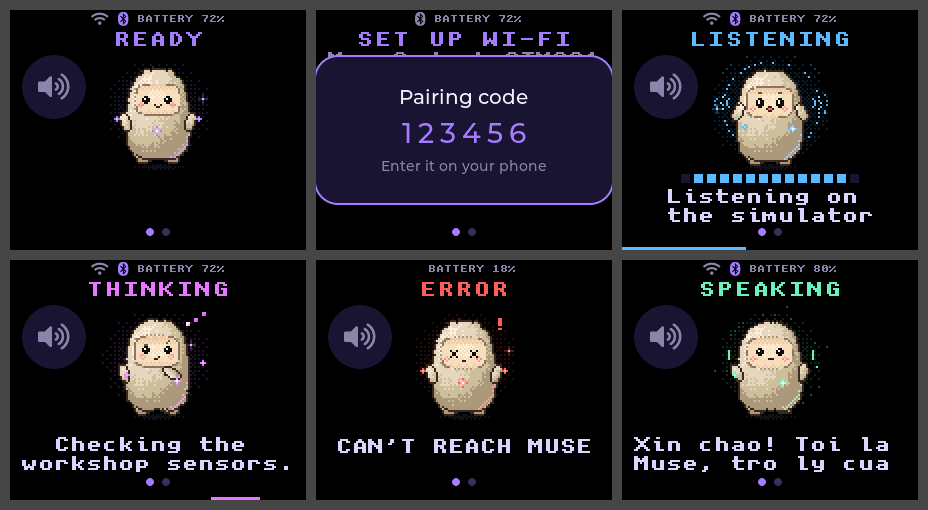
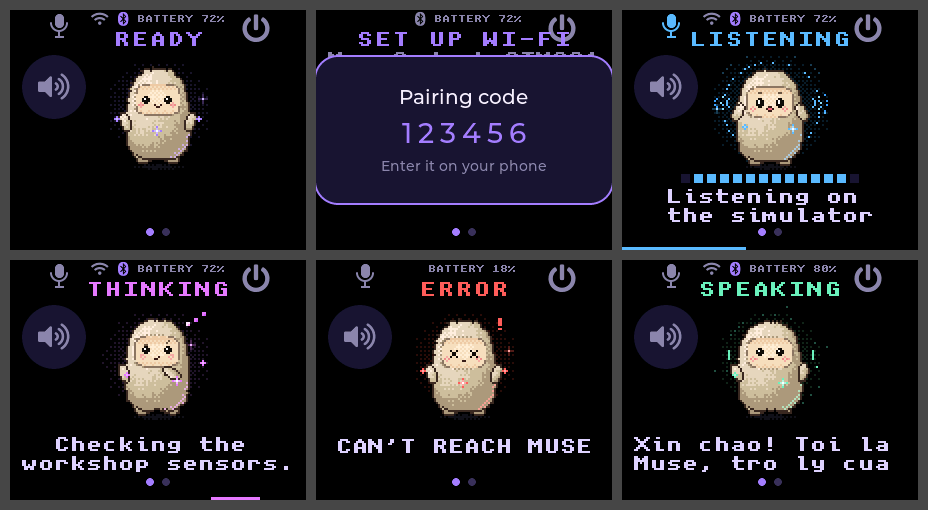
Add device pictures, the online flasher link and a settings footer
The READMEs show each board in its case, link the online flasher at
dbrobot.vn in the boards table, and say the DB_ROBOT logo is free to use
under the fork's license. CREDITS.md records where the pictures came from.

Settings ends with a "Muse AI by DB-robot" line.

OSTB-3ST: the maker's picture shows its keys in a row on the top edge, + on
the left and - on the right, so the mic and power icons move to the top
corners and the captions name the keys + and -.

Claude-Session: https://claude.ai/code/session_014d2NmrhNFXnJXy8CzacTwT

diff --git a/esp32/components/muse/boards/board_ostb_3st.c b/esp32/components/muse/boards/board_ostb_3st.c
@@ -18,7 +18,8 @@
  * OSTB-3ST ("ostb-xiaozhi-3st"): ESP32-S3 with a 1.83" 240x296 NV3023 LCD on
  * SPI, used in landscape (296x240), a CST816 touch controller with no
  * interrupt line, an ES8311 DAC and ES7210 ADC on one duplex I2S port, two
- * volume keys, a charge-status pin and a pin that cuts the board's power.
+ * volume keys on the top edge, a charge-status pin and a pin that cuts the
+ * board's power.
  *
  * Everything here about the hardware (pins, the panel's setup table and
  * orientation, the battery's ADC table) is from the board's xiaozhi-esp32
@@ -89,8 +90,8 @@ static const char *TAG = "board";
 #define I2S_DIN GPIO_NUM_7
 #define PA_EN GPIO_NUM_4
 
-#define TALK_GPIO GPIO_NUM_39   /* volume up, the upper key */
-#define AUX_GPIO GPIO_NUM_40    /* volume down, the lower key */
+#define TALK_GPIO GPIO_NUM_39   /* volume up, the + key */
+#define AUX_GPIO GPIO_NUM_40    /* volume down, the - key */
 #define CHG_GPIO GPIO_NUM_47    /* the charger's status: low while charging */
 #define PWR_OFF_GPIO GPIO_NUM_3 /* high: the board switches itself off */
 #define BATT_ADC ADC_CHANNEL_6  /* GPIO17, on ADC2 */
@@ -529,7 +530,7 @@ static void panel_off(void *arg)
 
 /*
  * The power-off pin switches the board off, as its own firmware does. On USB
- * power it may stay up: then the screen stays off until the upper key is
+ * power it may stay up: then the screen stays off until the + key is
  * pressed, which restarts it.
  */
 static esp_err_t power_off(void)
@@ -555,11 +556,14 @@ static const muse_board_t s_board = {
     .round = false,
     .touch = true,
     .diagonal_in = 1.83f,
-    .talk_button = "upper",
-    .aux_button = "lower",
-    /* The two keys' icons, one above the other at the right edge. */
-    .talk_hint = { LV_ALIGN_TOP_RIGHT, -16, 60 },
-    .aux_hint = { LV_ALIGN_TOP_RIGHT, -14, 110 },
+    .talk_button = "+",
+    .aux_button = "-",
+    /* The keys are in a row on the top edge, as the maker's pictures show the
+     * case: + on the left, - on the right, and between them a key this
+     * firmware doesn't read. Their icons go under them, at either end of the
+     * status line, which has the middle of the top edge. */
+    .talk_hint = { LV_ALIGN_TOP_LEFT, 36, 4 },
+    .aux_hint = { LV_ALIGN_TOP_RIGHT, -36, 4 },
     .frame_ms = 40,
     .init = init,
     .display_start = display_start,

diff --git a/esp32/components/muse/muse_settings_ui.c b/esp32/components/muse/muse_settings_ui.c
@@ -14,7 +14,7 @@
  * limitations under the License.
  *
  * Modified by ledienbien-ai (2026): pages that fit a rectangular screen under 300 px
- * tall (for the OSTB-3ST).
+ * tall (for the OSTB-3ST); a "Muse AI by DB-robot" line under the settings list.
  */
 
 #include "muse_settings_ui.h"
@@ -1263,6 +1263,7 @@ static void build_home(lv_obj_t *tile)
     row(list, LV_SYMBOL_BATTERY_FULL, "Battery", &s_home_battery, on_nav, (void *)&BATTERY);
     row(list, LV_SYMBOL_POWER, "Power off", NULL, on_nav, (void *)&POWER);
     s_about = note(list, "");
+    note(list, "Muse AI by DB-robot");
 }
 
 static void tick_home(void)

diff --git a/README.vi.md b/README.vi.md
@@ -48,8 +48,8 @@ Mỗi bo chạy đầy đủ giao diện trên màn hình: avatar động, nhấ
 
 | Bo | Màn hình | Tên | Profile | Tình trạng |
 |---|---|---|---|---|
-| [Waveshare ESP32-S3-Touch-LCD-1.85C](#waveshare-esp32-s3-touch-lcd-185c) | Tròn 1,85" 360×360, cảm ứng | `s3lcd` | `waveshare-s3-185c` | Đã nạp lên bo thật: khởi động và hiện giao diện. Chưa thử trò chuyện với Muse |
-| [OSTB-3ST](#ostb-3st) | 1,83" 296×240, cảm ứng | `ostb` | `ostb-3st` | Biên dịch được; chưa chạy trên bo thật |
+| [Waveshare ESP32-S3-Touch-LCD-1.85C](#waveshare-esp32-s3-touch-lcd-185c) | Tròn 1,85" 360×360, cảm ứng | `s3lcd` | `waveshare-s3-185c` | Nạp firmware online tại: https://dbrobot.vn/firmware.html |
+| [OSTB-3ST](#ostb-3st) | 1,83" 296×240, cảm ứng | `ostb` | `ostb-3st` | Nạp firmware online tại: https://dbrobot.vn/firmware.html |
 
 Tên là cách `tools/muse/board.sh` gọi bo; profile là tên của cấu hình build và
 thư mục build. Các bo mà bản gốc hỗ trợ vẫn còn nguyên, liệt kê trong
@@ -57,6 +57,10 @@ thư mục build. Các bo mà bản gốc hỗ trợ vẫn còn nguyên, liệt 
 
 ## Waveshare ESP32-S3-Touch-LCD-1.85C
 
+<p align="center">
+  <img src="doc/image/waveshare-s3-185c-device.jpg" width="300" alt="Waveshare ESP32-S3-Touch-LCD-1.85C trong vỏ máy">
+  <img src="doc/image/waveshare-s3-185c-muse.jpg" width="300" alt="Trang cài đặt của Muse trên bo 1.85C">
+</p>
 <p align="center">
   <img src="doc/image/Wareshare%20Touch%20LCD%201.85C.png" width="720" alt="Giao diện Muse trên màn tròn 360 px, do trình mô phỏng vẽ: sẵn sàng, ghép đôi, đang nghe, đang nghĩ, lỗi và đang nói">
 </p>
@@ -90,6 +94,9 @@ Tài liệu phần cứng: [trang của Waveshare](https://docs.waveshare.com/ES
 ## OSTB-3ST
 
 <p align="center">
+  <img src="doc/image/ostb-3st-device.jpg" width="560" alt="OSTB-3ST, mặt trước và mặt sau">
+</p>
+<p align="center">
   <img src="doc/image/ostb-3st.png" width="720" alt="Giao diện Muse ở 296×240, do trình mô phỏng vẽ: sẵn sàng, ghép đôi, đang nghe, đang nghĩ, lỗi và đang nói">
 </p>
 <p align="center">
@@ -105,7 +112,7 @@ Giao diện được bố trí cho màn ngang 296×240.
 | Màn hình | LCD NV3023 1,83" 240×296 qua SPI, dùng theo chiều ngang, đèn nền PWM |
 | Cảm ứng | CST816, đọc bằng cách hỏi liên tục vì không có chân ngắt |
 | Âm thanh | DAC ES8311 và ADC ES7210 |
-| Phím | Phím trên (tăng âm lượng): giữ để nói. Phím dưới (giảm âm lượng): bấm để tắt màn hình, giữ để tắt nguồn |
+| Phím | Nằm ở cạnh trên. **+** (tăng âm lượng): giữ để nói. **−** (giảm âm lượng): bấm để tắt màn hình, giữ để tắt nguồn. Phím ở giữa không được dùng |
 | Pin | Mức pin theo bảng ADC của firmware gốc, và chân trạng thái của mạch sạc |
 
 **Tình trạng:** biên dịch được với ESP-IDF v6.0.1. Chưa chạy trên bo thật.
@@ -116,7 +123,7 @@ mã của bo.
 
 Giới hạn đã biết: modem 4G và đèn LED không được dùng. Pin chỉ hiện mức, không
 hiện điện áp. Tắt nguồn là kéo chân tắt nguồn của bo; khi cắm USB bo có thể vẫn
-chạy, màn hình tắt cho đến khi bấm phím trên. Khi pin đã đầy, bo chỉ biết mình
+chạy, màn hình tắt cho đến khi bấm phím +. Khi pin đã đầy, bo chỉ biết mình
 đang cắm USB lúc được nối với máy tính.
 
 Mã của bo: [`board_ostb_3st.c`](esp32/components/muse/boards/board_ostb_3st.c),
@@ -168,7 +175,7 @@ Các bước giống nhau cho mọi bo. Lấy tên và profile của bo ở
    khi đăng file công khai.
 5. Trong ứng dụng Muse, bật **Settings > Devices > Developer mode**, thêm thiết
    bị tên `MuseGadget-XXXXXX`, rồi nhấn nút nói của bo khi được hỏi (BOOT trên
-   bo 1.85C, phím trên của bo OSTB-3ST).
+   bo 1.85C, phím + của bo OSTB-3ST).
 
 ## Logo khởi động
 
@@ -248,8 +255,10 @@ hãy mở issue trên repo này.
 - Hai file của bản gốc giữ giấy phép riêng: `minimp3.h` (CC0-1.0) và
   `pixel_font.c` (BSD-2-Clause). Các component tải về lúc build theo giấy phép
   của chính chúng.
-- Giấy phép Apache không bao gồm [avatar Jollybot](esp32/avatar), logo khởi
-  động DB_ROBOT, cũng như tên và nhãn hiệu Meta, Muse và Waveshare.
+- Logo khởi động DB_ROBOT là của ledienbien-ai và được dùng tự do, theo cùng
+  giấy phép với các thay đổi khác của bản fork này.
+- Giấy phép Apache không bao gồm [avatar Jollybot](esp32/avatar), cũng không
+  bao gồm tên và nhãn hiệu Meta, Muse và Waveshare.
 
 [`CREDITS.md`](CREDITS.md) (tiếng Anh) có danh sách đầy đủ: từng nguồn, giấy
 phép của nguồn đó, các file bản fork này thêm hoặc sửa, và những việc cần giữ

diff --git a/README.md b/README.md
@@ -47,8 +47,8 @@ settings by touch, and images from Muse.
 
 | Board | Screen | Name | Profile | Status |
 |---|---|---|---|---|
-| [Waveshare ESP32-S3-Touch-LCD-1.85C](#waveshare-esp32-s3-touch-lcd-185c) | 1.85" round 360×360, touch | `s3lcd` | `waveshare-s3-185c` | Flashed on a board: it boots and shows the UI. Talking to Muse hasn't been tried |
-| [OSTB-3ST](#ostb-3st) | 1.83" 296×240, touch | `ostb` | `ostb-3st` | Builds; not yet run on the board |
+| [Waveshare ESP32-S3-Touch-LCD-1.85C](#waveshare-esp32-s3-touch-lcd-185c) | 1.85" round 360×360, touch | `s3lcd` | `waveshare-s3-185c` | Flash the firmware online at: https://dbrobot.vn/firmware.html |
+| [OSTB-3ST](#ostb-3st) | 1.83" 296×240, touch | `ostb` | `ostb-3st` | Flash the firmware online at: https://dbrobot.vn/firmware.html |
 
 The name is what `tools/muse/board.sh` calls the board; the profile names its
 build settings and build directory. The boards upstream supports are still
@@ -56,6 +56,10 @@ here, listed in [`esp32/devices/README.md`](esp32/devices/README.md).
 
 ## Waveshare ESP32-S3-Touch-LCD-1.85C
 
+<p align="center">
+  <img src="doc/image/waveshare-s3-185c-device.jpg" width="300" alt="The Waveshare ESP32-S3-Touch-LCD-1.85C in its case">
+  <img src="doc/image/waveshare-s3-185c-muse.jpg" width="300" alt="Muse's settings on the 1.85C">
+</p>
 <p align="center">
   <img src="doc/image/Wareshare%20Touch%20LCD%201.85C.png" width="720" alt="The Muse UI at 360 px round, drawn by the simulator: ready, pairing, listening, thinking, error and speaking">
 </p>
@@ -89,6 +93,9 @@ Hardware reference: [Waveshare's documentation](https://docs.waveshare.com/ESP32
 ## OSTB-3ST
 
 <p align="center">
+  <img src="doc/image/ostb-3st-device.jpg" width="560" alt="The OSTB-3ST, front and back">
+</p>
+<p align="center">
   <img src="doc/image/ostb-3st.png" width="720" alt="The Muse UI at 296×240, drawn by the simulator: ready, pairing, listening, thinking, error and speaking">
 </p>
 <p align="center">
@@ -104,7 +111,7 @@ Ported from the source of the board's xiaozhi-esp32 firmware
 | Display | 1.83" 240×296 NV3023 LCD on SPI, used in landscape, PWM backlight |
 | Touch | CST816, read by polling: it has no interrupt line |
 | Audio | ES8311 DAC and ES7210 ADC |
-| Keys | Upper (volume up): hold to talk. Lower (volume down): press to sleep the screen, hold to power off |
+| Keys | On the top edge. **+** (volume up): hold to talk. **−** (volume down): press to sleep the screen, hold to power off. The key between them isn't used |
 | Battery | Level from the firmware's ADC table, and the charger's status pin |
 
 **Status:** builds with ESP-IDF v6.0.1. It has not been run on the board. The
@@ -115,7 +122,7 @@ or mirrored, or touches land in the wrong place, change `LCD_MADCTL` or
 
 Known limits: the 4G modem and the LED aren't used. The battery shows a level
 but no voltage. Powering off drives the board's power-off pin; on USB power the
-board may stay up, with the screen off until the upper key is pressed. Once
+board may stay up, with the screen off until the + key is pressed. Once
 the battery is full, the board knows it's on USB power only while a computer
 is attached.
 
@@ -168,7 +175,7 @@ The steps are the same for every board. Take its name and profile from the
    publish the file.
 5. In the Muse app, turn on **Settings > Devices > Developer mode**, add the
    device named `MuseGadget-XXXXXX`, and press the board's talk button when
-   asked (BOOT on the 1.85C, the upper key on the OSTB-3ST).
+   asked (BOOT on the 1.85C, the + key on the OSTB-3ST).
 
 ## Startup logo
 
@@ -246,8 +253,10 @@ an issue on this repository.
 - Two upstream files keep their own licenses: `minimp3.h` (CC0-1.0) and
   `pixel_font.c` (BSD-2-Clause). Components fetched at build time are under
   their own licenses.
-- The Apache License does not cover the [Jollybot avatar](esp32/avatar), the
-  DB_ROBOT startup logo, or the Meta, Muse and Waveshare names and marks.
+- The DB_ROBOT startup logo is ledienbien-ai's and free to use, under the
+  same license as the rest of this fork's changes.
+- The Apache License does not cover the [Jollybot avatar](esp32/avatar), nor
+  the Meta, Muse and Waveshare names and marks.
 
 [`CREDITS.md`](CREDITS.md) has the full list: every source, its license, the
 files this fork added or changed, and what to keep in order in later versions.

diff --git a/CREDITS.md b/CREDITS.md
@@ -63,15 +63,16 @@ Files added:
 | [`esp32/devices/sdkconfig.muse-waveshare-s3-185c`](esp32/devices/sdkconfig.muse-waveshare-s3-185c) | Build settings for the 1.85C |
 | [`esp32/components/muse/boards/board_ostb_3st.c`](esp32/components/muse/boards/board_ostb_3st.c) | The OSTB-3ST: NV3023 display and its setup table (see section 3), touch, audio, keys, battery, power |
 | [`esp32/devices/sdkconfig.muse-ostb-3st`](esp32/devices/sdkconfig.muse-ostb-3st) | Build settings for the OSTB-3ST |
-| [`esp32/components/muse/logo/logo.c`](esp32/components/muse/logo) | The DB_ROBOT startup logo, as LVGL's image converter exported it. **Not under the Apache License** (see below) |
+| [`esp32/components/muse/logo/logo.c`](esp32/components/muse/logo) | The DB_ROBOT startup logo, as LVGL's image converter exported it. Copyright (c) 2026 ledienbien-ai, free to use under the Apache License like the rest of this section |
 | `doc/image/` | Pictures for the READMEs: the UI at each added board's screen size, drawn by the simulator. They show the default Jollybot avatar, which the Apache License does not cover (section 1) |
 | `CREDITS.md`, `README.vi.md`, `README.zh-CN.md`, `README.ja.md`, `README.ko.md` | This file and the translated READMEs |
 
-**The Apache License does not cover the DB_ROBOT logo.** It is ledienbien-ai's
-own mark, all rights reserved, and firmware built from this repository shows it
-at startup. If you build for yourself or publish a fork, replace
-`logo/logo.c` with your own image or turn the logo off
-(`CONFIG_MUSE_BOOT_LOGO`).
+`doc/image/` also holds pictures of the boards themselves.
+`waveshare-s3-185c-muse.jpg` is ledienbien-ai's own photo.
+`waveshare-s3-185c-device.jpg` and `ostb-3st-device.jpg` were supplied by this
+fork's owner and look to be the makers' or sellers' product pictures: they are
+here to show which hardware is meant, belong to their owners, and are not
+under the Apache License.
 
 Upstream files modified, each marked "Modified by ledienbien-ai" under its
 license header, as section 4(b) of the Apache License asks:
@@ -82,7 +83,7 @@ license header, as section 4(b) of the Apache License asks:
 | `esp32/README.md`, `esp32/AGENTS.md`, `esp32/devices/README.md`, `esp32/devices/AGENTS.md` | List the new boards |
 | `esp32/components/muse/Kconfig`, `CMakeLists.txt`, `idf_component.yml` | Register the boards and the 1.85C's `esp_lcd_st77916` dependency; the startup logo's options |
 | `esp32/components/muse/muse_ui.c` | On round screens smaller than 412 px, the speaker button sits under the state word. On a rectangular screen under 300 px tall (the OSTB-3ST's 296×240), a smaller Muse and a bar in place of the ring. The startup logo |
-| `esp32/components/muse/muse_settings_ui.c` | Settings pages that fit a screen that short |
+| `esp32/components/muse/muse_settings_ui.c` | Settings pages that fit a screen that short; a "Muse AI by DB-robot" line under the settings list |
 | `esp32/tools/muse/board.sh`, `ports.py`, `avatar.py` | Add the `s3lcd` and `ostb` board aliases |
 
 ## 3. Sources used for the board ports
@@ -155,7 +156,7 @@ The simulator's LVGL and SDL are listed in
 
 - **Names and logos.** The Apache License grants no right to the Meta, Muse,
   Waveshare or Espressif names and marks beyond describing where the work came
-  from, nor to the DB_ROBOT name and logo.
+  from.
 - **The Muse service.** Pairing a gadget needs an SDK token and is governed by
   the [Gadget SDK Terms](https://gadgets.muse.ai/sdk-terms), not by this
   repository's license.

diff --git a/esp32/devices/README.md b/esp32/devices/README.md
@@ -59,7 +59,7 @@ session to Muse. The rest depends on the hardware.
 | Touch | — | — | — | — | — | ✅ | ✅ | ✅ | ✅ | — | ✅ | ✅ | — | — |
 | Battery status | — | — | — | — | — | ✅ | ✅ | ✅ | Level only | ✅ | ✅ | ✅ | ✅ | Voltage only |
 | Over-the-air updates | Off | Off | Off | Off | Off | On | On | On | On | On | On | On | On | On |
-| Buttons | BOOT | BOOT | Top | Green | Centre (talk), dial | PWR (talk), BOOT | BOOT (talk), PWR | BOOT (talk) | Upper (talk), lower | Two | BOOT (talk), PWR | Wheel (press to talk, turn to sleep) | Front (talk), side (menu), PWR | Front (talk), side (menu), PWR |
+| Buttons | BOOT | BOOT | Top | Green | Centre (talk), dial | PWR (talk), BOOT | BOOT (talk), PWR | BOOT (talk) | + (talk), − | Two | BOOT (talk), PWR | Wheel (press to talk, turn to sleep) | Front (talk), side (menu), PWR | Front (talk), side (menu), PWR |
 
 Boards without PSRAM (the ideaspark and the Waveshare C6) don't have room for
 the home-network tunnel. Muse can still reach and control them once the

diff --git a/esp32/AGENTS.md b/esp32/AGENTS.md
@@ -221,7 +221,7 @@ flash size and status backend.
    | `front` | M5Stack StickS3, or StickC Plus2 — tell them apart by the port: the StickS3 is native USB, the Plus2 is a CH9102 `usbserial` |
    | `top` | Waveshare ESP32-S3-Touch-AMOLED-1.75C |
    | `bottom right` | AIPI Lite |
-   | `upper` | OSTB-3ST |
+   | `+` | OSTB-3ST |
    | `wheel` | Seeed SenseCAP Watcher |
    | `boot` | Waveshare ESP32-C6-Touch-AMOLED-1.8, ESP32-S3-Touch-AMOLED-1.75 or ESP32-S3-Touch-LCD-1.85C — the target (`esp32c6` or `esp32s3`) picks out the C6; step 1's board name tells the two S3 boards apart |
 
